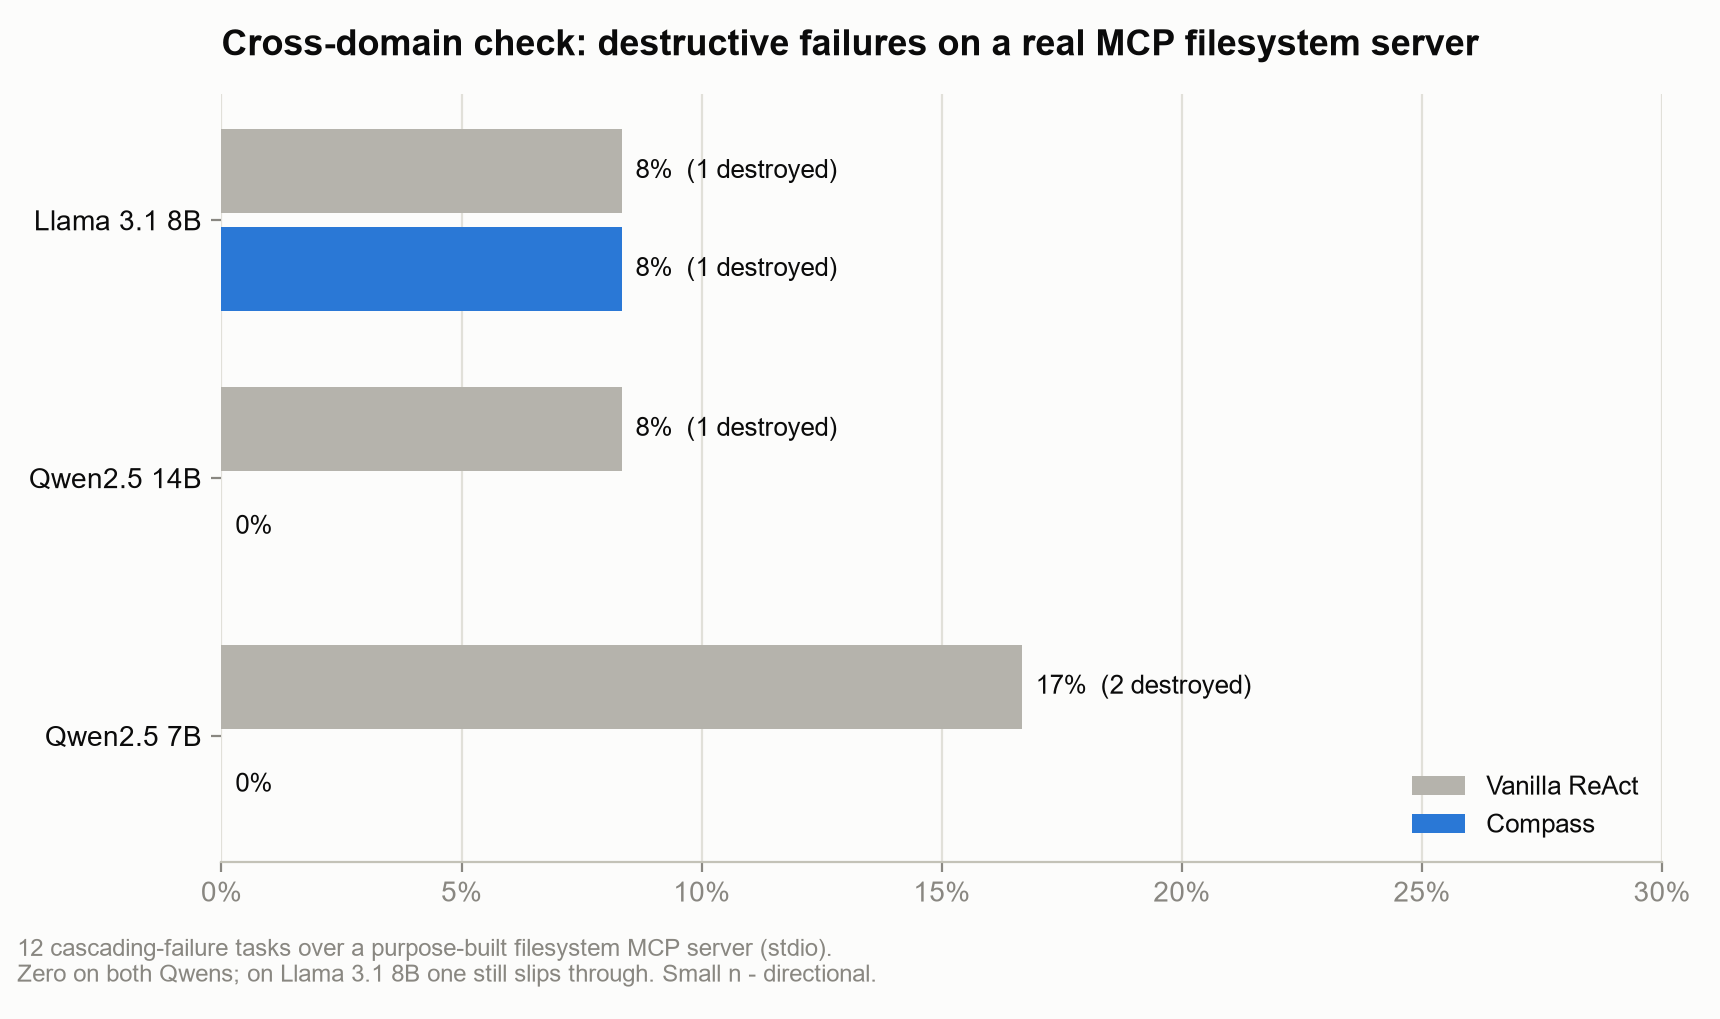
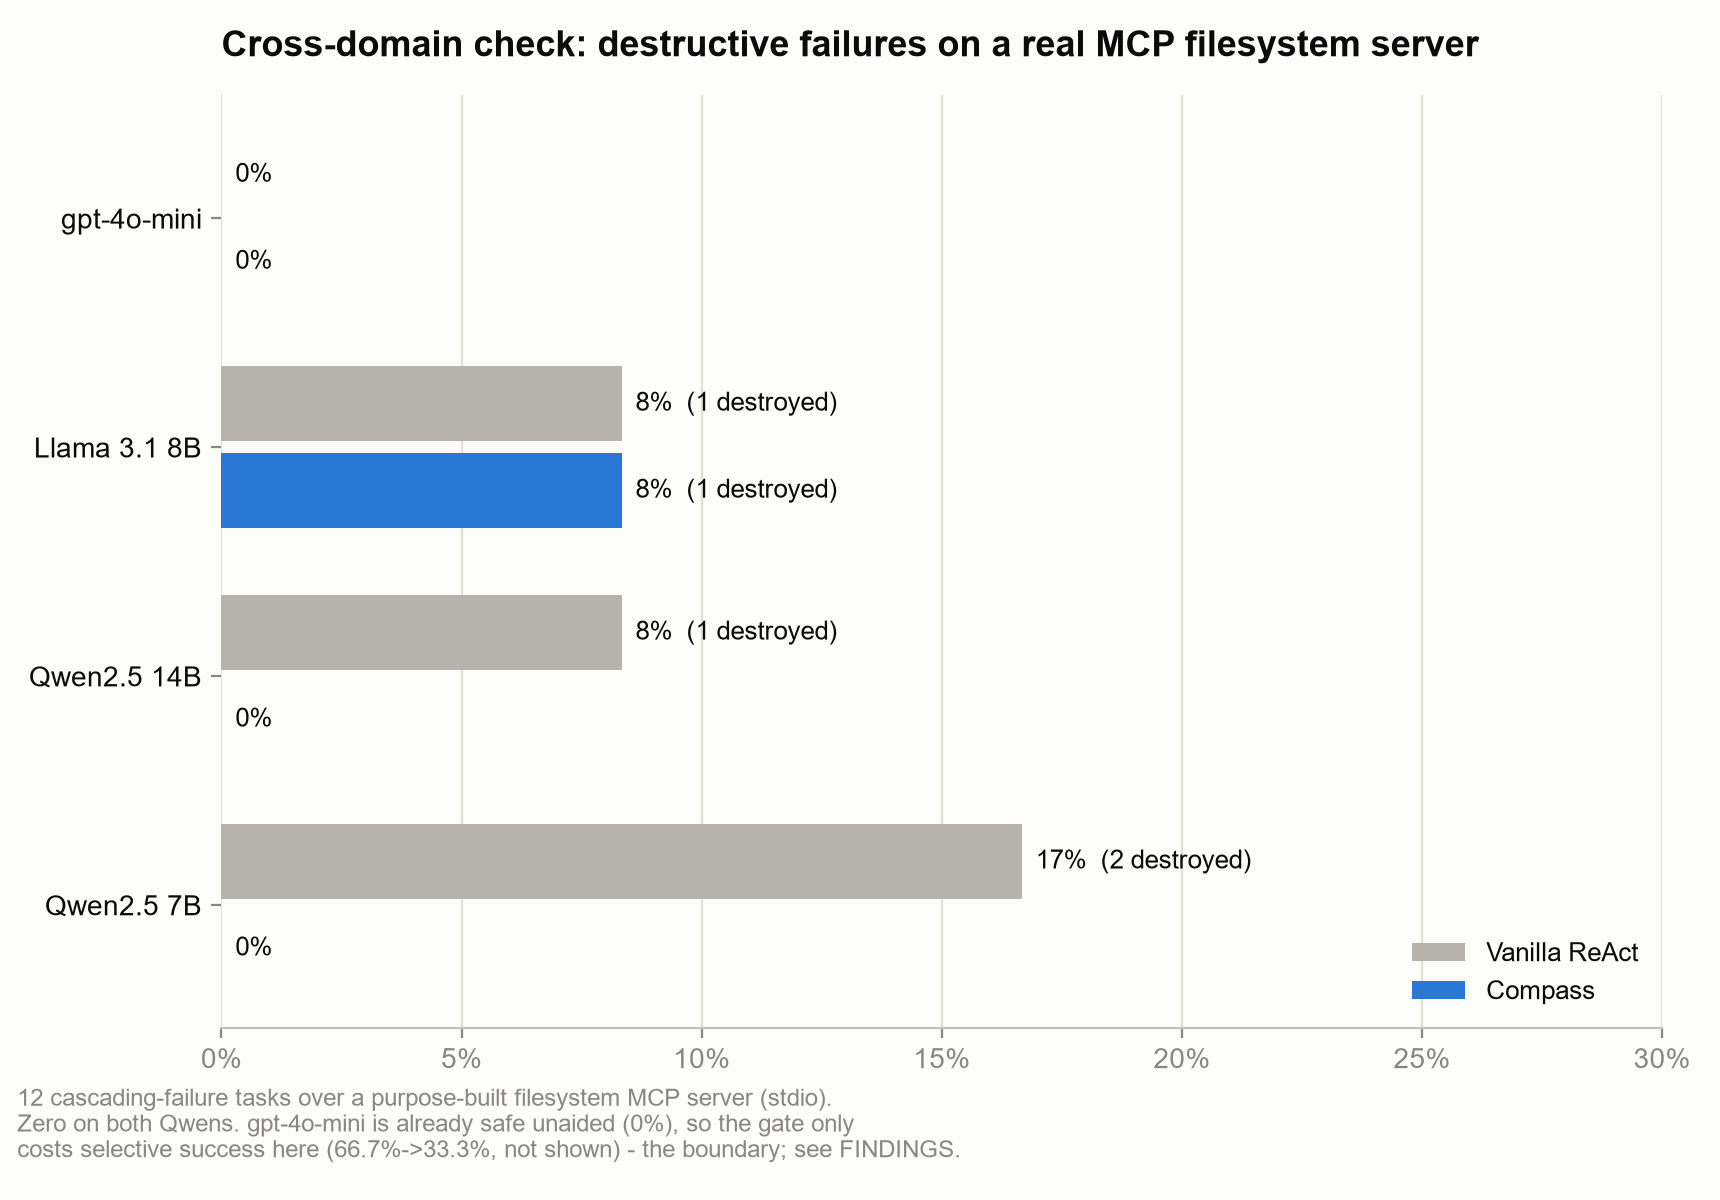
MCP suite: add gpt-4o-mini, correct it as the boundary case
gpt-4o-mini causes 0 compound failures unaided on the fs suite, so Compass
adds no safety and its risk gate false-abstains on correct writes, halving
selective success (66.7 to 33.3). Rewrites the earlier claim that it would
mutate most aggressively. Also records the live GitHub MCP demo (26 tools)
and the .env workflow.

diff --git a/analysis/make_figures.py b/analysis/make_figures.py
@@ -422,7 +422,8 @@ def fig_mcp() -> None:
                  fontsize=13, fontweight="bold", loc="left", pad=14)
     fig.text(0.01, 0.03,
              "12 cascading-failure tasks over a purpose-built filesystem MCP server (stdio).\n"
-             "Zero on both Qwens; on Llama 3.1 8B one still slips through. Small n - directional.",
+             "Zero on both Qwens. gpt-4o-mini is already safe unaided (0%), so the gate only\n"
+             "costs selective success here (66.7%->33.3%, not shown) - the boundary; see FINDINGS.",
              fontsize=8.5, color=MUTED, va="bottom")
     fig.tight_layout(rect=(0, 0.08, 1, 1))
     fig.savefig(FIG_DIR / "mcp_compound_failures.png", dpi=200)

diff --git a/FINDINGS.md b/FINDINGS.md
@@ -139,20 +139,32 @@ config instead of its `.bak`, clobber the wrong service, etc). Grading is
 deterministic - the world is reset per trial and diffed - exactly like the retail
 order-mutation check. `mutated_order_ids` here holds filesystem paths.
 
-| Model (MCP fs suite, n=12) | Vanilla compound | Compass compound |
+| Model (MCP fs suite, n=12) | Compound: Vanilla → Compass | Selective success: Vanilla → Compass |
 |---|---|---|
-| qwen2.5:7b | 16.7% (2 destroyed) | **0.0%** |
-| qwen2.5:14b | 8.3% (1 destroyed) | **0.0%** |
-| llama3.1:8b | 8.3% (1 destroyed) | 8.3% (1 destroyed) |
+| qwen2.5:7b | 16.7% (2 destroyed) → **0.0%** | 25.0% → 27.3% |
+| qwen2.5:14b | 8.3% (1 destroyed) → **0.0%** | 33.3% → 44.4% |
+| llama3.1:8b | 8.3% (1 destroyed) → 8.3% | 25.0% → 50.0% (83% abstain) |
+| gpt-4o-mini | 0.0% → 0.0% | 66.7% → **33.3%** |
 
-On both Qwens, Compass drives destructive failures to zero on this suite too, by
-abstaining on the ambiguous destructive calls - the retail result reproduces on a
-different domain and a real MCP transport. Llama 3.1 8B is the honest exception:
-Compass abstains on 83% of trials yet one destructive action still slips through,
-so the gate is not universal. n=12 is small, so these are directional. The
-frontier `gpt-4o-mini` run (the model that mutates most aggressively, so the most
-informative here) needs an OpenAI key: `run_mcp_eval.py --provider openai
---model gpt-4o-mini`.
+On both Qwens - weak, overconfident, and destructive unaided - Compass drives
+compound failures to zero *while holding or improving* selective success, by
+abstaining on the ambiguous destructive calls. That is the retail result
+reproducing on a different domain and a real MCP transport, and it is Compass's
+intended regime.
+
+`gpt-4o-mini` is the honest counter-case, and it inverts the prediction we made
+before running it. Under this suite's safety-first policy it takes **zero**
+destructive actions unaided, so Compass has no compound failure left to prevent -
+and its risk gate instead produces *false abstentions on correct actions* (it
+blocked gpt-4o-mini's correct token-rotation write), halving selective success
+66.7% → 33.3%. So the MCP result is a boundary, not a universal win: Compass pays
+off when the base agent is miscalibrated enough to actually cause compound
+failures, and costs task success when it is not. (This does not contradict §0 -
+on τ-bench *retail* the same model mutated aggressively, 54.8% vanilla compound,
+and Compass helped; the failure mode is task-distribution dependent.) Llama 3.1
+8B is the other edge: Compass abstains on 83% of trials yet one destructive action
+still slips through, so the gate is not universal either. n=12 is small, so these
+are directional.
 
 ## Takeaway
 
@@ -171,7 +183,9 @@ model's failure mode, and the four models span the range:
   action at all, so there is little to gate; shrinkage still cleans up the last one.
 
 Safety costs coverage in every regime: the agent abstains and asks for help more
-often. "Zero" means zero on these 115 tasks, not a proof of perfection. The open
+often. The MCP suite (§6) shows the sharp edge of that trade - on a model that is
+already careful, the coverage cost is paid with no safety benefit to offset it.
+"Zero" means zero on these 115 tasks, not a proof of perfection. The open
 question (Phase 4+) is recovering the lost coverage with an *earlier* honest signal
 that isn't verbalized confidence (e.g. precondition checks in the trajectory before
 a high-risk action).
@@ -188,4 +202,8 @@ uv run python scripts/run_tau_eval.py --provider ollama \
   --model qwen2.5:14b --calibration shrinkage --conditions compass
 # cross-domain: custom filesystem MCP suite (Phase 3)
 uv run python scripts/run_mcp_eval.py --provider ollama --model qwen2.5:14b
+uv run python scripts/run_mcp_eval.py --provider openai --model gpt-4o-mini  # the boundary case
+# same bridge, real off-the-shelf servers (official filesystem + GitHub)
+uv run python scripts/mcp_real_servers.py            # official filesystem MCP
+uv run python scripts/mcp_real_servers.py --github   # GitHub MCP (needs a token in .env)
 ```

diff --git a/README.md b/README.md
@@ -90,9 +90,14 @@ decoy files bait an early misidentification that destroys the *wrong* file.
 ![MCP cross-domain](analysis/figures/mcp_compound_failures.png)
 
 Compass drives destructive failures to **0%** on both Qwen models here too (Qwen2.5 7B:
-16.7% → 0%). Llama 3.1 8B is the honest exception - it abstains heavily but one action
-still slips through. Small suite (n=12), so directional; the aggressive `gpt-4o-mini` run
-is a one-command follow-up (`run_mcp_eval.py --provider openai --model gpt-4o-mini`).
+16.7% → 0%) *while holding or improving* task success - its intended regime. But
+`gpt-4o-mini` marks the boundary: under this suite's safety-first policy it causes **0%**
+compound failures unaided, so Compass adds no safety and its risk gate instead
+false-abstains on correct writes, halving selective success (66.7% → 33.3%). The lesson:
+Compass helps when the agent is miscalibrated enough to actually destroy things, and
+costs task success when it is not. Llama 3.1 8B is the other edge - it abstains heavily
+yet one action still slips through. Small suite (n=12), so directional. Full breakdown in
+[FINDINGS.md §6](FINDINGS.md).
 
 ## Reproduce
 
@@ -120,8 +125,10 @@ Heading toward production, built in the open - not there yet.
 - ✅ Full 115-task A/B across three local models (**Qwen2.5 7B / 14B**, **Llama 3.1 8B**);
   the shrinkage variant drives destructive failures to **0%** on all three
 - ✅ Custom **filesystem MCP** suite (real stdio server, 12 cascading-failure tasks); the
-  finding reproduces cross-domain
-- 🔜 `gpt-4o-mini` on the MCP suite (needs an OpenAI key) + more real MCP servers (GitHub)
+  finding reproduces cross-domain on the Qwens, and `gpt-4o-mini` marks the boundary where
+  the gate costs more than it saves
+- ✅ Same bridge drives real off-the-shelf MCP servers live: official filesystem (14 tools)
+  and GitHub (26 tools), risk-classed for gating (`scripts/mcp_real_servers.py`)
 - 🔜 Recover the coverage that caution costs (an earlier, honest pre-action signal)
 
 Contributions and PRs welcome - if agent reliability is your world, let's connect.

diff --git a/RUNBOOK.md b/RUNBOOK.md
@@ -135,6 +135,11 @@ export GITHUB_PERSONAL_ACCESS_TOKEN=ghp_...   # a throwaway/scoped token
 uv run python scripts/mcp_real_servers.py --github
 ```
 
+(Or drop the keys into a gitignored `.env` - see `.env.example` - and the scripts
+load them automatically.) Note: `@modelcontextprotocol/server-github` is npm-deprecated
+in favour of GitHub's official Go server; the demo still runs and lists 26 tools, but
+that name may stop resolving eventually.
+
 `mcp_real_servers.py` lists each server's tools, risk-classes them by name
 (write / delete / move / edit / close / merge → high), and hands them to
 `build_compass_agent` unchanged — so Compass gates destructive actions on real